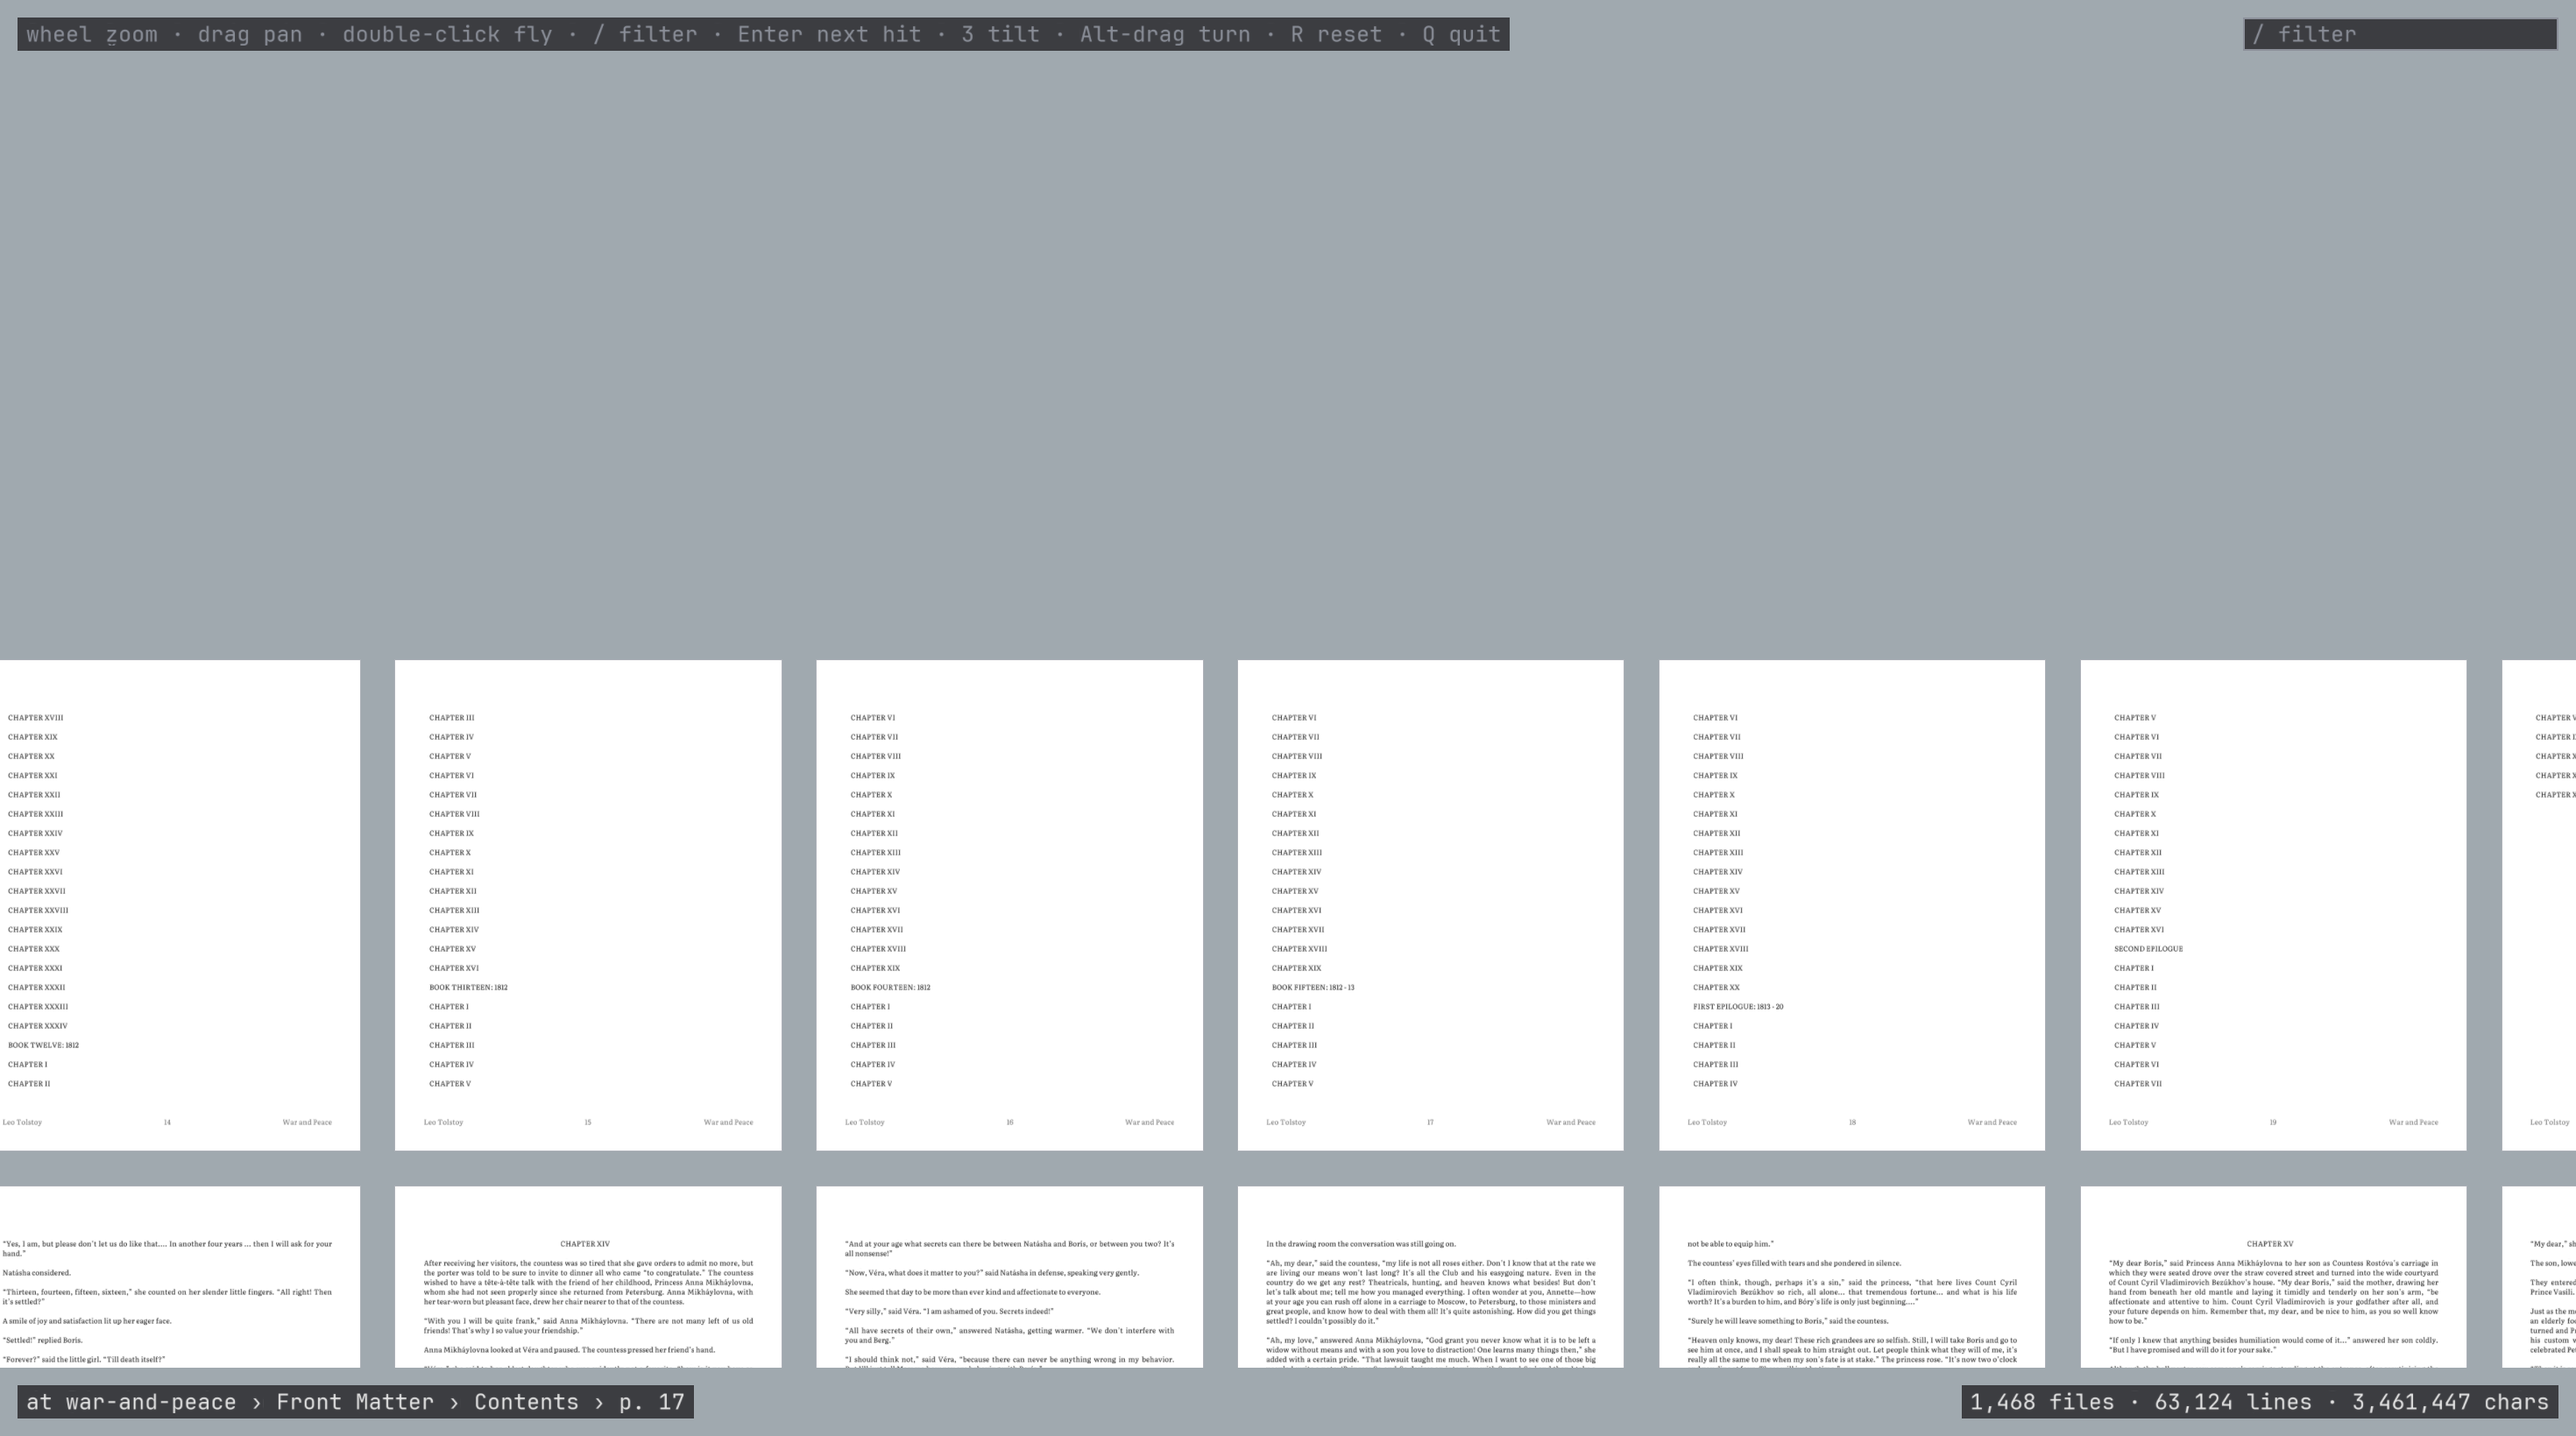
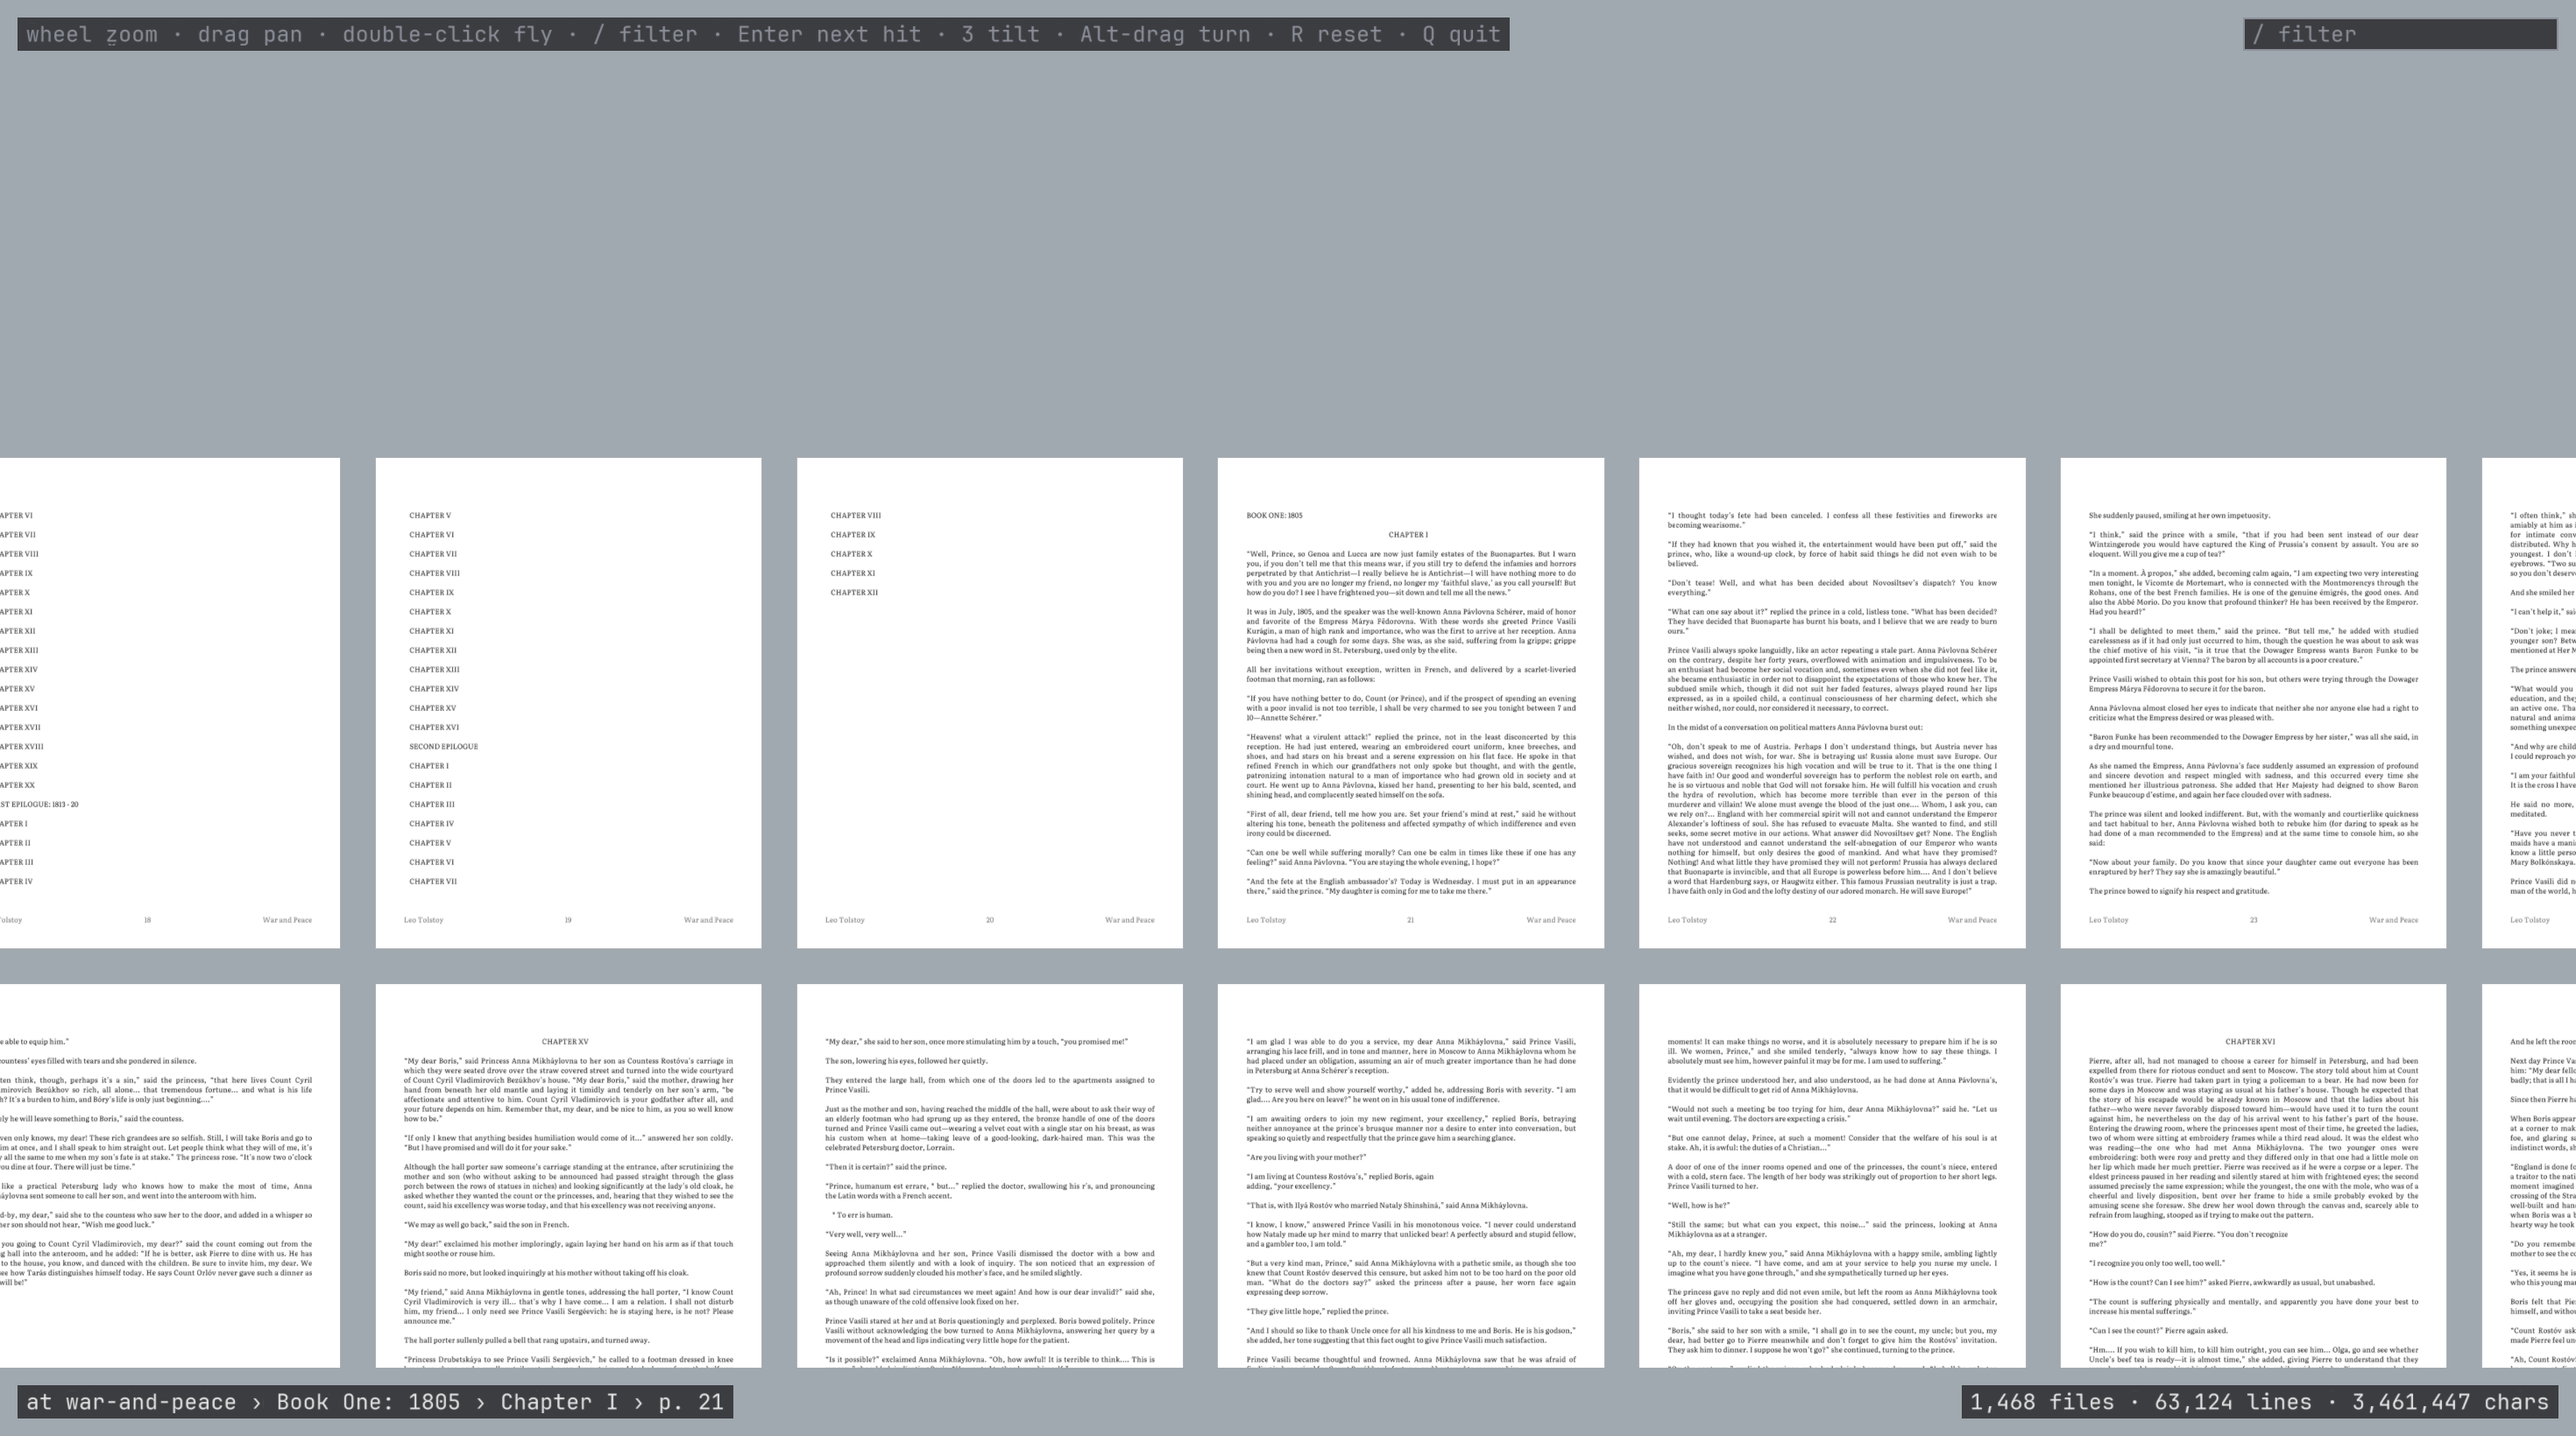
The book's screenshots and their captions follow the reflowed pages
The hover snapshot puts the cursor on the file nearest the centre, since the centre of the flow grid is a gutter; the opening shot lands on page 21, where Book One now begins; the captions quote the pages and lines the images show.

Changed region(s): [[0.0, 0.311, 1.0, 0.9951]]

diff --git a/atlas_viewer.py b/atlas_viewer.py
@@ -2072,7 +2072,12 @@ class Viewer:
         for name, ppl in (("bars.png", 2.0), ("tokens.png", 4.5), ("text.png", 16.0)):
             self.set_zoom_ppl(ppl, centre)
             snap(name)
-        self.cursor_override = (self.map_w / 2, self.map_y0 + self.map_h / 2)
+        # the cursor on the file nearest the centre (the centre itself may be a gutter)
+        r = self.a["file_rect"]
+        fc = np.stack([(r[:, 0] + r[:, 2]) / 2, (r[:, 1] + r[:, 3]) / 2], axis=1)
+        f = int(np.argmin(np.hypot(fc[:, 0] - self.cx, fc[:, 1] - self.cy)))
+        self.camera_matrix()
+        self.cursor_override = self.world_to_screen(fc[f, 0], fc[f, 1])
         snap("hover.png")
         self.cursor_override = None
         self.fit()

diff --git a/docs/shots/README.md b/docs/shots/README.md
@@ -22,7 +22,7 @@ Regenerate everything with:
 ./atlas_viewer.py data/emscripten_atlas --proj 3d --heights --tilt 55 --yaw 12 --tint --goto tools/link.py:1500 --zoom 2.2 --frames 2 --screenshot docs/shots/emscripten/hero.png
 ./atlas_viewer.py data/emscripten_atlas --proj 3d --heights --tilt 55 --yaw 12 --hover emcc.py:199:5 --frames 2 --screenshot docs/shots/emscripten/3d_text.png
 ./atlas_viewer.py data/war-and-peace_atlas --proj 3d --tilt 55 --yaw 12 --goto "p. 481:1" --zoom 3 --frames 2 --no-hover --screenshot docs/shots/war-and-peace/hero.png
-./atlas_viewer.py data/war-and-peace_atlas --goto "p. 17:1" --zoom 11 --frames 2 --no-hover --screenshot docs/shots/war-and-peace/opening.png
+./atlas_viewer.py data/war-and-peace_atlas --goto "p. 21:22" --zoom 11 --frames 2 --no-hover --screenshot docs/shots/war-and-peace/opening.png
 ```
 
 The line numbers in the `--goto` and `--hover` commands are the ones that held when the images were taken (`class Viewer`, `def tokenize`, the README's longest line, emcc's `def main`); they move as the files are edited.
@@ -35,7 +35,7 @@ The line numbers in the `--goto` and `--hover` commands are the ones that held w
 
 - `overview.png`: the map fitted to the window.
 - `bars.png`, `tokens.png`, `text.png`: 2, 4.5 and 16 px per line about the corpus centre: the line-bars LOD, the tokens LOD with item outlines, the text LOD.
-- `hover.png`: the text view with the cursor at the window centre: the hovered file's light border and label.
+- `hover.png`: the text view with the cursor on the file nearest the window centre: the hovered file's light border and label.
 - `filter.png`: the fitted map with the `--filter` word applied: every hit file outlined in yellow, the rest dimmed, the panel listing the hits by file, the status line counting them.
 - `result.png`: after stepping to the first hit: the fly-to landed at the text LOD with the hit filled yellow, the file's 3 px border, the row highlighted in the panel.
 - `3d.png`, `3d_zoom.png`: the 3D projection with the heights on, at tilt 55 and yaw 12, fitted and at 3 px per line about the centre.
@@ -72,10 +72,10 @@ The whole tree as git tracks it, test suites and system libraries included, at t
 In the book's own scheme, Dobbie's: white pages and black text on his demo's blue-grey ground, the text in Literata, justified, with a book's leading, every glyph placed by its own advance, the quotes curly and the accents kept, the pages fading to pale grey as the text gives way to blocks and bars, every page with its running footer. The standard set with `--filter Natásha` (1,213 hits on 310 pages), a book having no tint, plus:
 
 - `war-and-peace/overview.png`: the map fitted: one grid of pages in reading order, the front matter's contents pages first, each page a cell at the line-bars LOD; no part is drawn, the crumb trail names the one under the centre.
-- `war-and-peace/hover.png`: the text view hovered at the centre: the label `Book Eight: 1811 - 12/Chapter IX/p. 657` (part, chapter, page; a book has no items).
-- `war-and-peace/result.png`: after stepping to the first mention (Book One, Chapter XI, p. 56, line 41), the fly-to at text zoom with the hit filled yellow.
+- `war-and-peace/hover.png`: the text view with the cursor on the page nearest the centre (the centre itself is a gutter): the label `Book Nine: 1812/Chapter XII/p. 783:20` (part, chapter, page and line; a book has no items).
+- `war-and-peace/result.png`: after stepping to the first mention (Book One, Chapter XI, p. 63, line 32), the fly-to at text zoom with the hit filled yellow and the panel listing the hits by page.
 - `war-and-peace/3d.png`, `3d_zoom.png`: the grid tilted, nothing extruded: a book's layout is flat whatever the heights setting.
-- `war-and-peace/opening.png`: `--goto "p. 17:1" --zoom 11`: the book's first pages, the contents on the front-matter pages above `Book One: 1805` and Chapter I.
+- `war-and-peace/opening.png`: `--goto "p. 21:22" --zoom 11`: the last pages of the contents, then page 21, `BOOK ONE: 1805` and Chapter I.
 
 ## Frame times
 

diff --git a/README.md b/README.md
@@ -129,7 +129,7 @@ The README's second image is the viewer scripted from the shell, and the opening
 
 ```bash
 ./atlas_viewer.py data/war-and-peace_atlas --proj 3d --tilt 55 --yaw 12 --goto "p. 481:1" --zoom 3 --frames 2 --no-hover --screenshot hero.png
-./atlas_viewer.py data/war-and-peace_atlas --goto "p. 17:1" --zoom 11
+./atlas_viewer.py data/war-and-peace_atlas --goto "p. 21:22" --zoom 11
 ```
 
 Any Gutenberg plain text works the same way: `--gutenberg N` with its ebook number, or a path to a text file already on disk. A text whose parts and chapters are headed `BOOK`, `PART`, `VOLUME`, `EPILOGUE` or `PROLOGUE` and `CHAPTER` at the start of a line splits as War and Peace does; a text without headings becomes one part named after the corpus, its pages `name/p. 1` onward. `--font` sets the face, any TrueType or OpenType file under the repository, and everything that depends on it follows: the reflow, the footer, the centred headings and the ink are measured from the face at index time; `--leading` its air between lines (1.3); `--page-lines` sets the page (40 by default), `--page-aspect` its shape (Letter, `612:792`), `--no-reflow` keeps Gutenberg's own line breaks, `--front` names the part before the first heading (`Front matter`), and `--name` the corpus. The text is kept in Windows-1252, which both glyph tiers cover, so Natásha keeps her accent and the quotes stay curly; a character outside it becomes `?`.
@@ -195,7 +195,7 @@ The same images for War and Peace, in `docs/shots/war-and-peace/`. The map fitte
 
 ![the book fitted](docs/shots/war-and-peace/overview.png)
 
-The book opens: the contents on the front-matter pages, then `Book One: 1805` and the first line of Chapter I, at 11 pixels per line.
+The book opens: the last pages of the contents, then page 21, `BOOK ONE: 1805` and Chapter I, at 11 pixels per line, the footer under every page.
 
 ![the opening pages](docs/shots/war-and-peace/opening.png)
 
